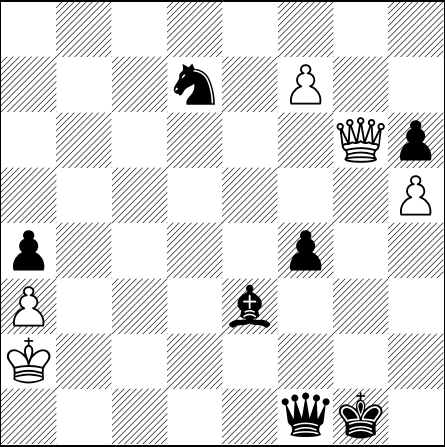
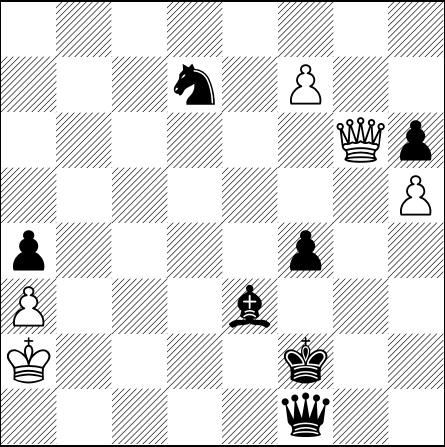
[automated] Regenerate text/pdf for chessboard

Changed region(s): [[0.6135, 0.7562, 0.7596, 0.8725], [0.7596, 0.8725, 0.8764, 0.9888]]

diff --git a/default_filepath.tex b/default_filepath.tex
@@ -13,6 +13,6 @@
 \normalsize%
 \setchessboard{showmover=false}%
 \newgame%
-\fenboard{8/3n1P2/6Qp/7P/p4p2/P3b3/K7/5qk1 b - - 24 109}%
+\fenboard{8/3n1P2/6Qp/7P/p4p2/P3b3/K4k2/5q2 w - - 25 110}%
 \chessboard%
 \end{document}
